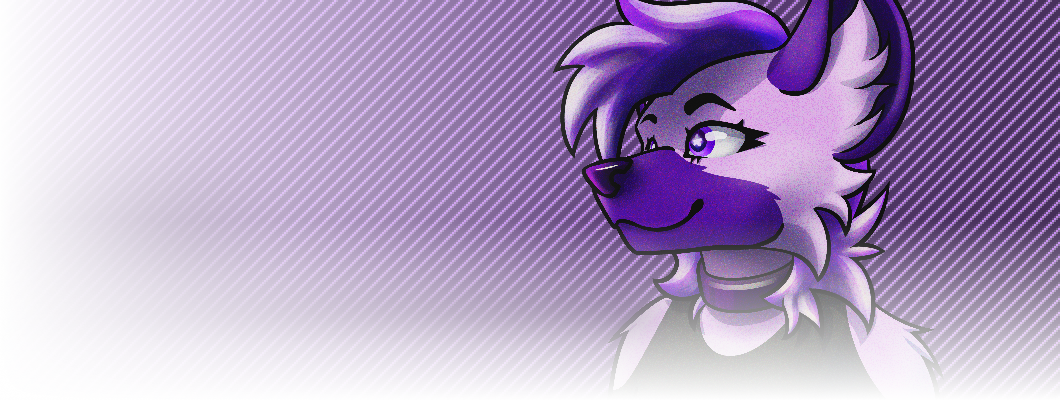
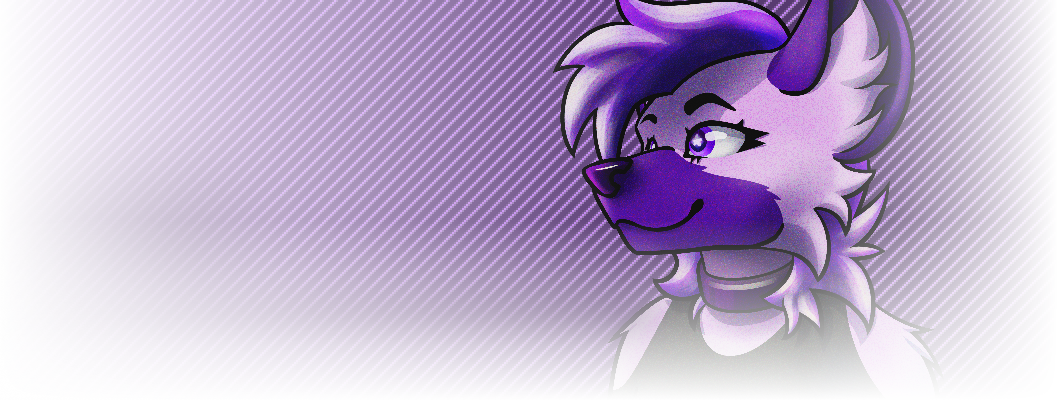
crt effect

Changed region(s): [[0.7783, 0.0, 1.0, 0.96]]

diff --git a/public/main.css b/public/main.css
@@ -10,15 +10,16 @@
     descent-override: 35%;
 }
 :root {
-    --text: #fff;
+    --text: #fffc;
+    --icon: #fff8;
     --selection: #f6f;
     --selection-text: #404;
-    --shadow: #000;
-    --small-text: #888;
+    --shadow: #000a;
+    --small-text: #555;
     --section: #000;
-    --border: #555;
-    --link: #caf;
-    --link-b: #547;
+    --border: #444;
+    --link: #a7f;
+    --link-b: #437;
     --accent: #f0f;
     --accent-b: #707;
     --accent-c: #202;
@@ -39,17 +40,21 @@
 body {
     margin: 0;
     box-sizing: border-box;
-    background-color: var(--shadow);
+    background-color: var(--section);
     background-image: url(/assets/background-tile.png);
     image-rendering: pixelated;
+    filter: brightness(1.6);
+    mask: linear-gradient(0deg, #aaaa 10%, #ffff 40%, #ffff 60%, #aaaa 90%) 0 0 / 256px 2px;
     &::selection {
         background-color: var(--selection);
         color: var(--selection-text);
     }
+
 }
 main, .main {
     width: 1000px;
     margin: 0 auto;
+
 }
 h1, h2, h3, h4, h5, h6 {
     margin: 0;
@@ -259,7 +264,7 @@ marquee {
 }
 .icon {
     height: 1em;
-    filter: drop-shadow(0.1em 0.1em var(--shadow)) drop-shadow(0 0 0.25em var(--text));
+    filter: drop-shadow(0.1em 0.1em var(--shadow)) drop-shadow(0 0 0.25em var(--icon));
     &.success {
         filter: drop-shadow(0.1em 0.1em var(--shadow)) drop-shadow(0 0 0.25em var(--success));
     }
@@ -295,10 +300,15 @@ marquee {
         background-image: url(/assets/transparency.png);
         background-size: 16px;
         img {
+            position: relative;
+            z-index: 1;
             height: 250px;
             display: block;
+            filter: brightness(0.7);
         }
         figcaption {
+            position: relative;
+            z-index: 2;
             background: linear-gradient(#000d, #0002, #0000);
             height: 100%;
             width: 100%;
@@ -317,7 +327,7 @@ marquee {
         &:hover, &:active {
             scale: 1.4;
             box-shadow: 0 0 50px var(--shadow);
-            z-index: 2;
+            z-index: 3;
             figcaption {
                 opacity: 0;
                 &.desc {

diff --git a/public/elements/indexHeader.html b/public/elements/indexHeader.html
@@ -2,7 +2,7 @@
     <img src="/assets/index-banner.png" style="width: 800px;">
 </div>
 <div style="height: 100px;"></div>
-<img src="/assets/amethyst-tilted-lowres.png" style="width: 90px; margin-bottom: -3px;">
+    <img src="/assets/amethyst-tilted-lowres.png" style="width: 90px; margin-bottom: -3px;">
 <h1 style="position: relative; margin-left: 7px; z-index: 1; display: inline-block;">AIVI<span class="success">.<span style="margin-left: -0.06em;">PARTY!</span></span></h1>
 <div style="position: relative; margin-left: 25px; z-index: 1; word-spacing: 1em;">
     <i>

diff --git a/public/index.html b/public/index.html
@@ -93,7 +93,7 @@
                         <div style="height: 10px;"></div>
                         <div style="height: 225px; overflow-y: scroll;">
                             <table id="changelog" style="width: 100%;">
-                                <tr><td class="important num">6.26.1.30</td><td><p>Fixed glyph repertoire in blog post for Segris.</p></td></tr>
+                                <tr><td class="important num">6.26.1.30</td><td><p>Added crt effect to main pages. Fixed glyph repertoire in blog post for Segris.</p></td></tr>
                                 <tr><td class="important num">6.26.1.28</td><td><p>Created num and bg class for number displays, using a new font, Segris 16. Temporarily fixed issue where some browsers don't show the entire welcome section.</p></td></tr>
                                 <tr><td class="important num">6.26.1.25</td><td><p>Added 404 page to blog. Made hrefs and srcs use the root directory instead of relative paths. Correctly returned http statuses on error pages.</p></td></tr>
                                 <tr><td class="important num">6.26.1.24</td><td><p>Added Neocities to social links. Fixed initial scale. Added favicon. Wrote a blog entry and modified blog page behavior.</p></td></tr>